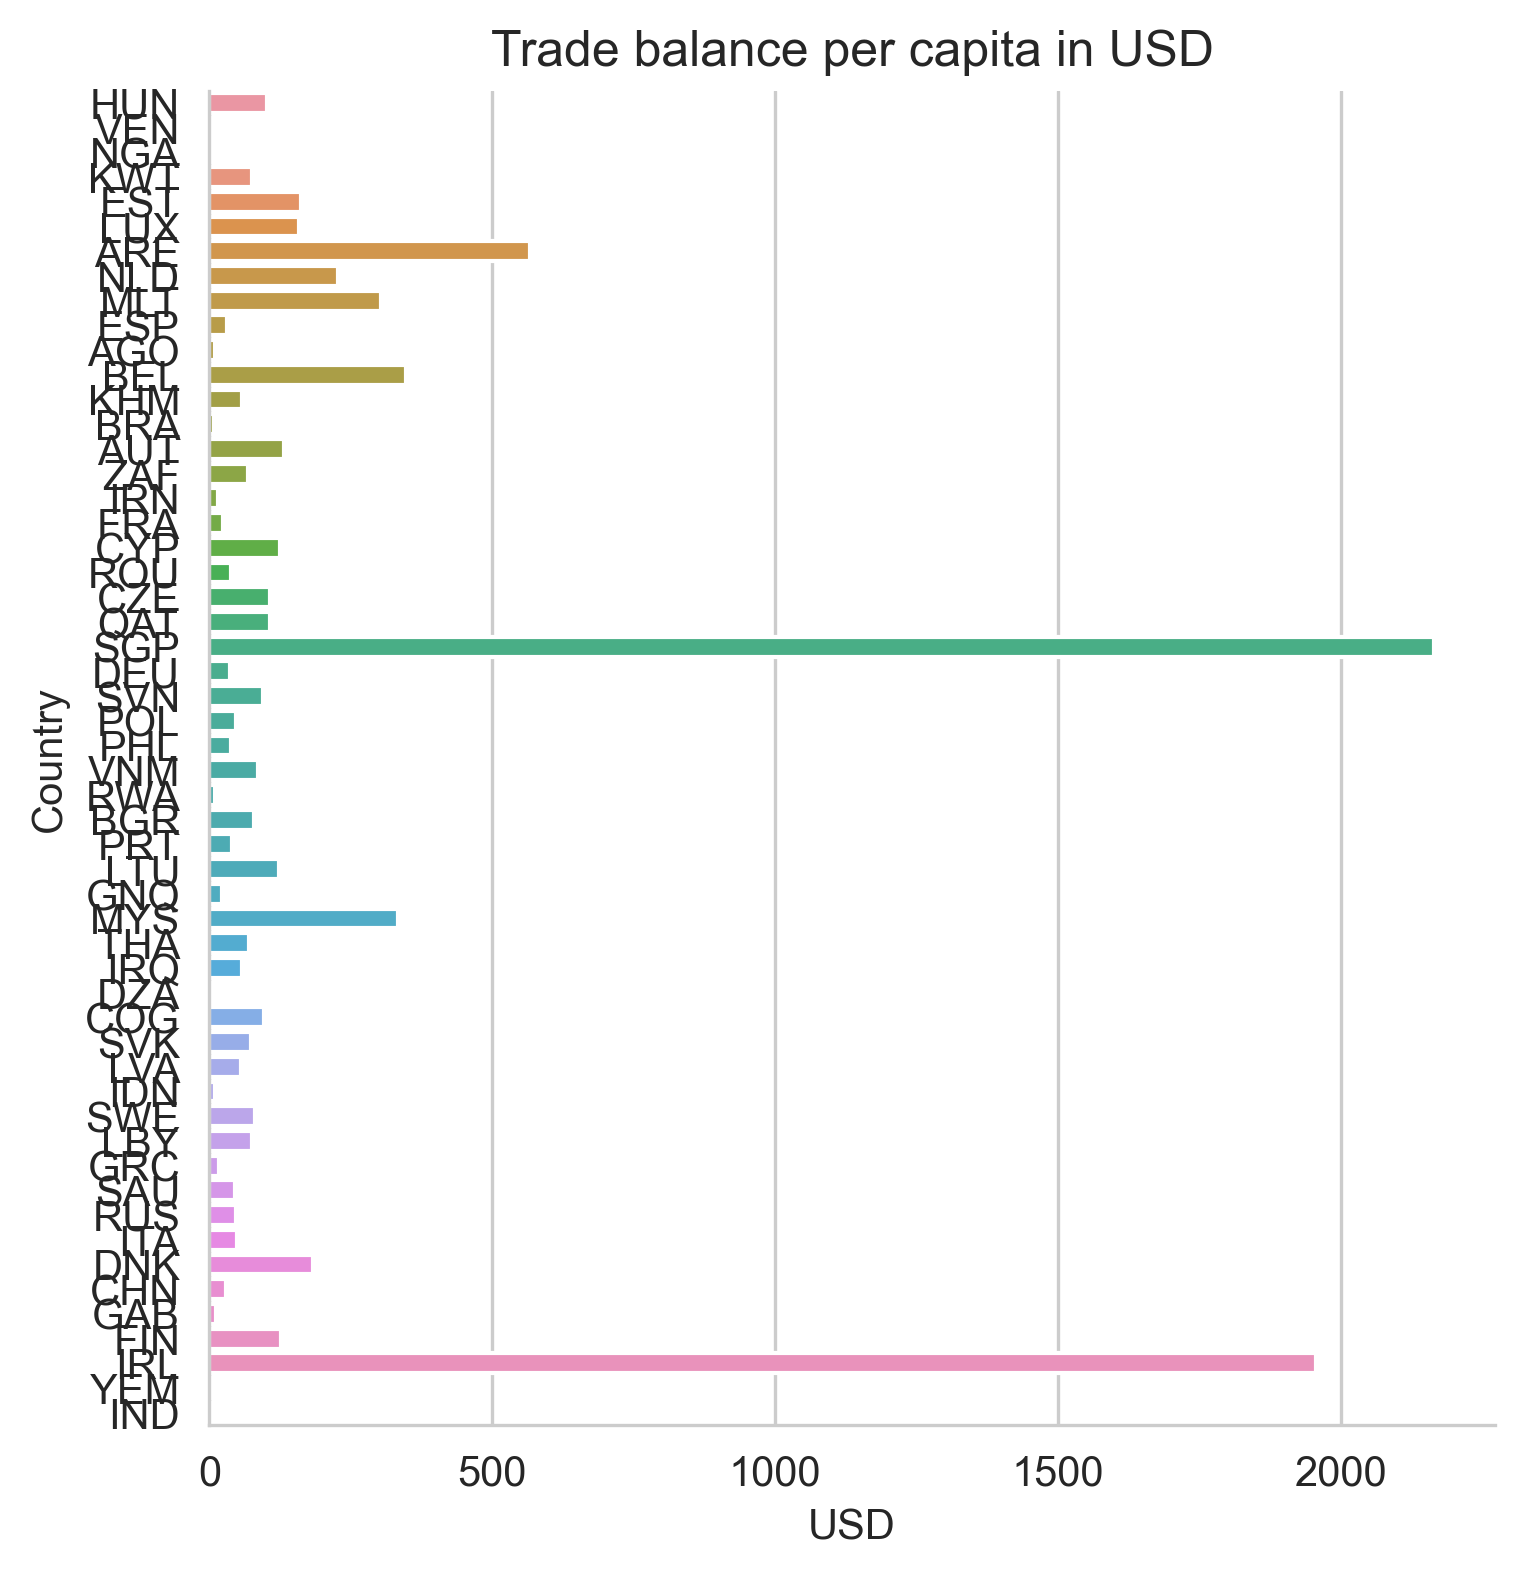
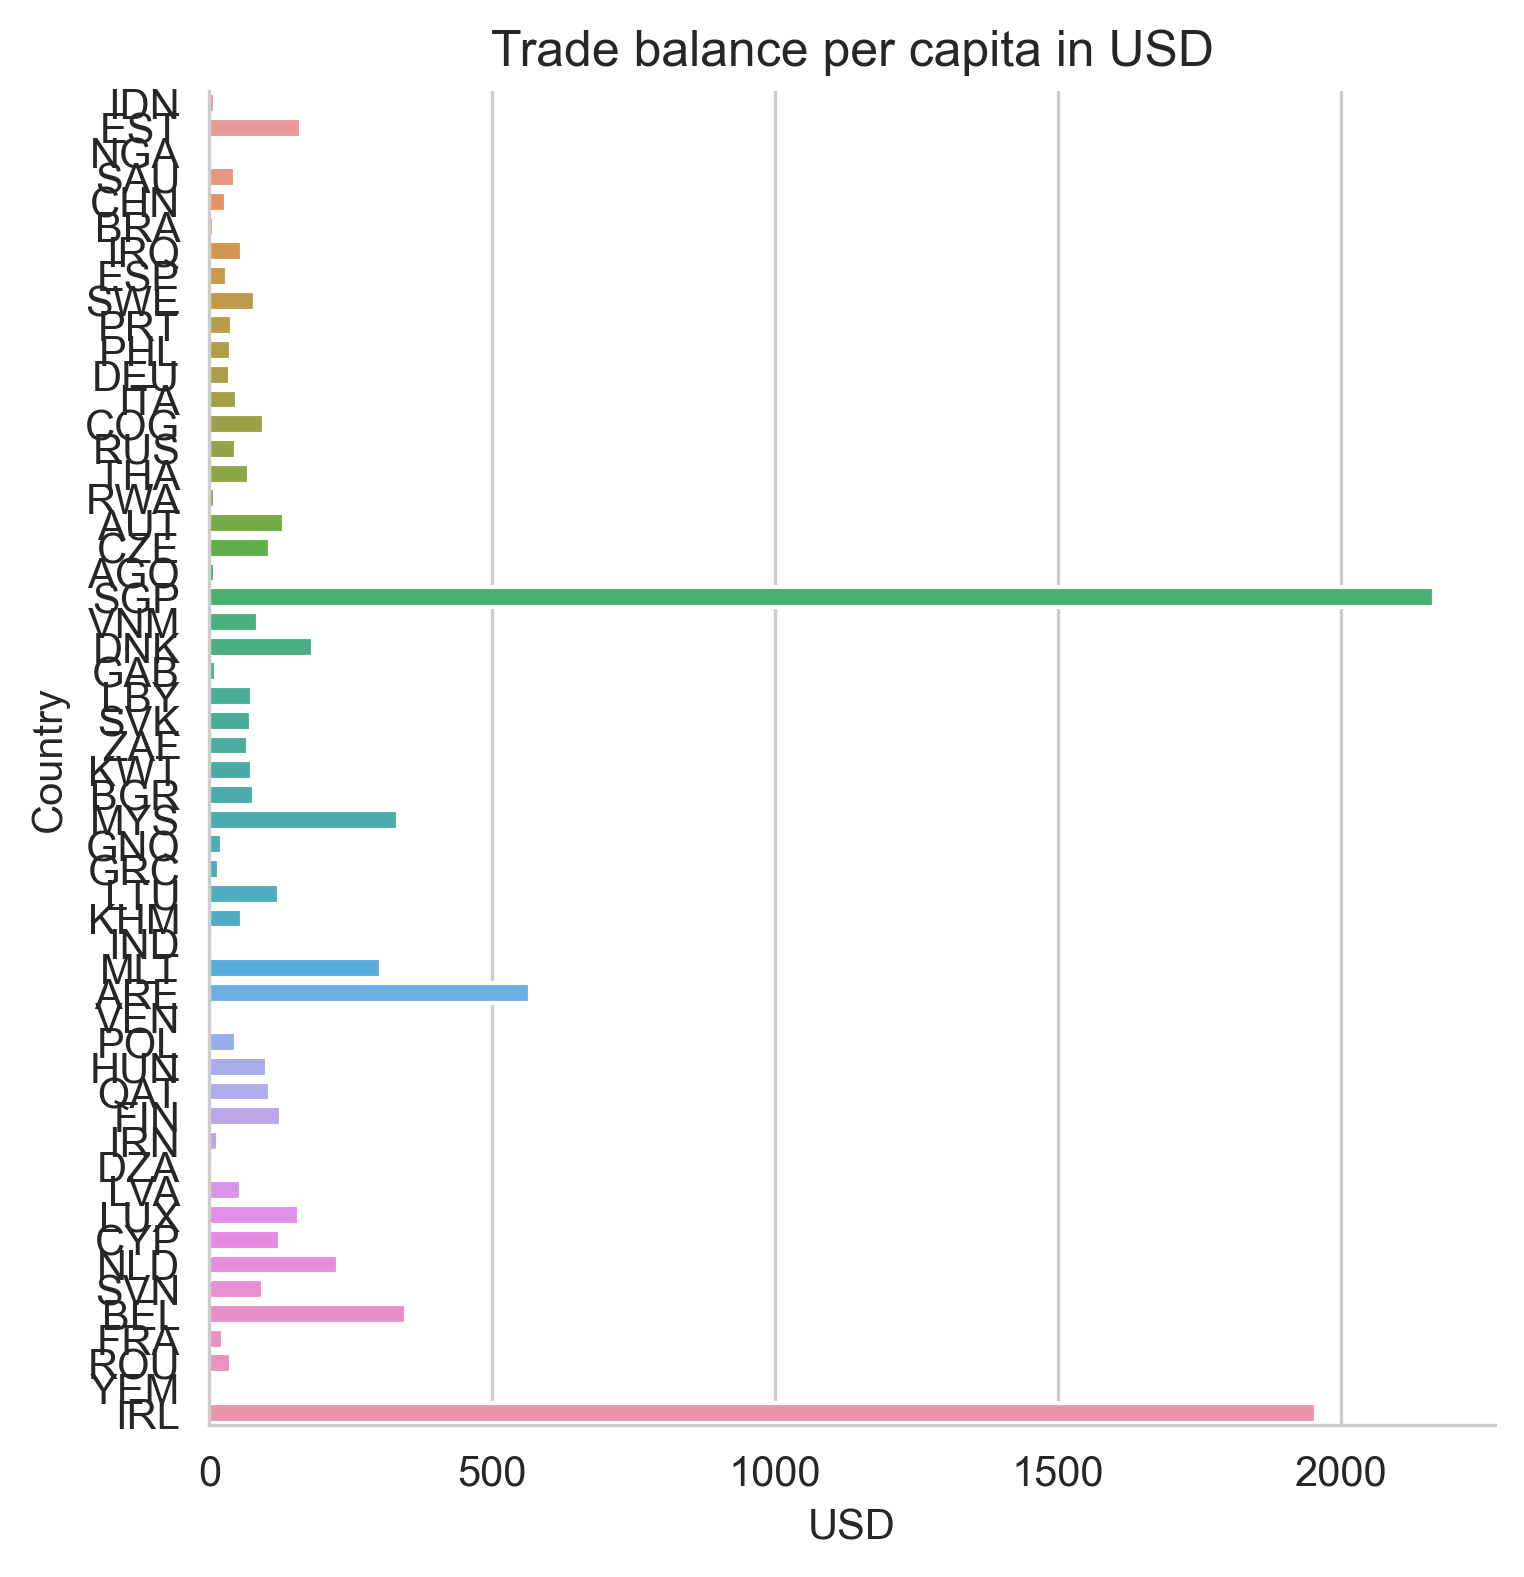
update remote

Changed region(s): [[0.0617, 0.0621, 0.8635, 0.9011], [0.1542, 0.3729, 0.956, 0.435]]

diff --git a/python/plot_treemaps_exports.py b/python/plot_treemaps_exports.py
@@ -344,7 +344,7 @@ def main():
 
     def plot_top10_partners(df, location_code):
         # Plot bar plot andsave plot as png to output folder. Use seaborn for styling
-        fig, ax = plt.subplots(figsize=(5, 3))
+        fig, ax = plt.subplots(figsize=(5, 8))
         sns.set_style("whitegrid")
         sns.catplot(x='avg_trade_bal_per_capita', y='location_code', data=all_countries_df.to_pandas(), palette='Blues_d', kind='bar')
         plt.title(location_code)
